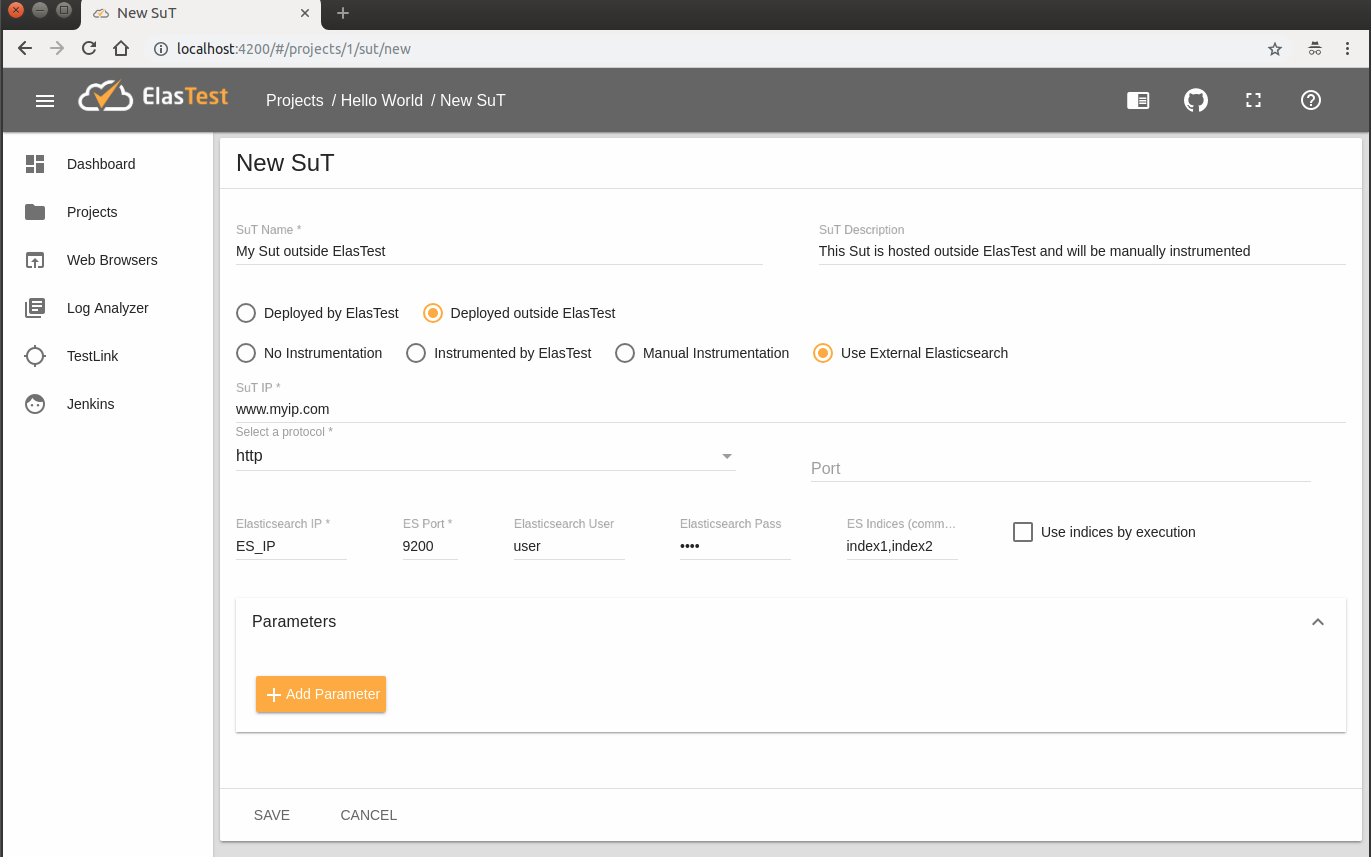
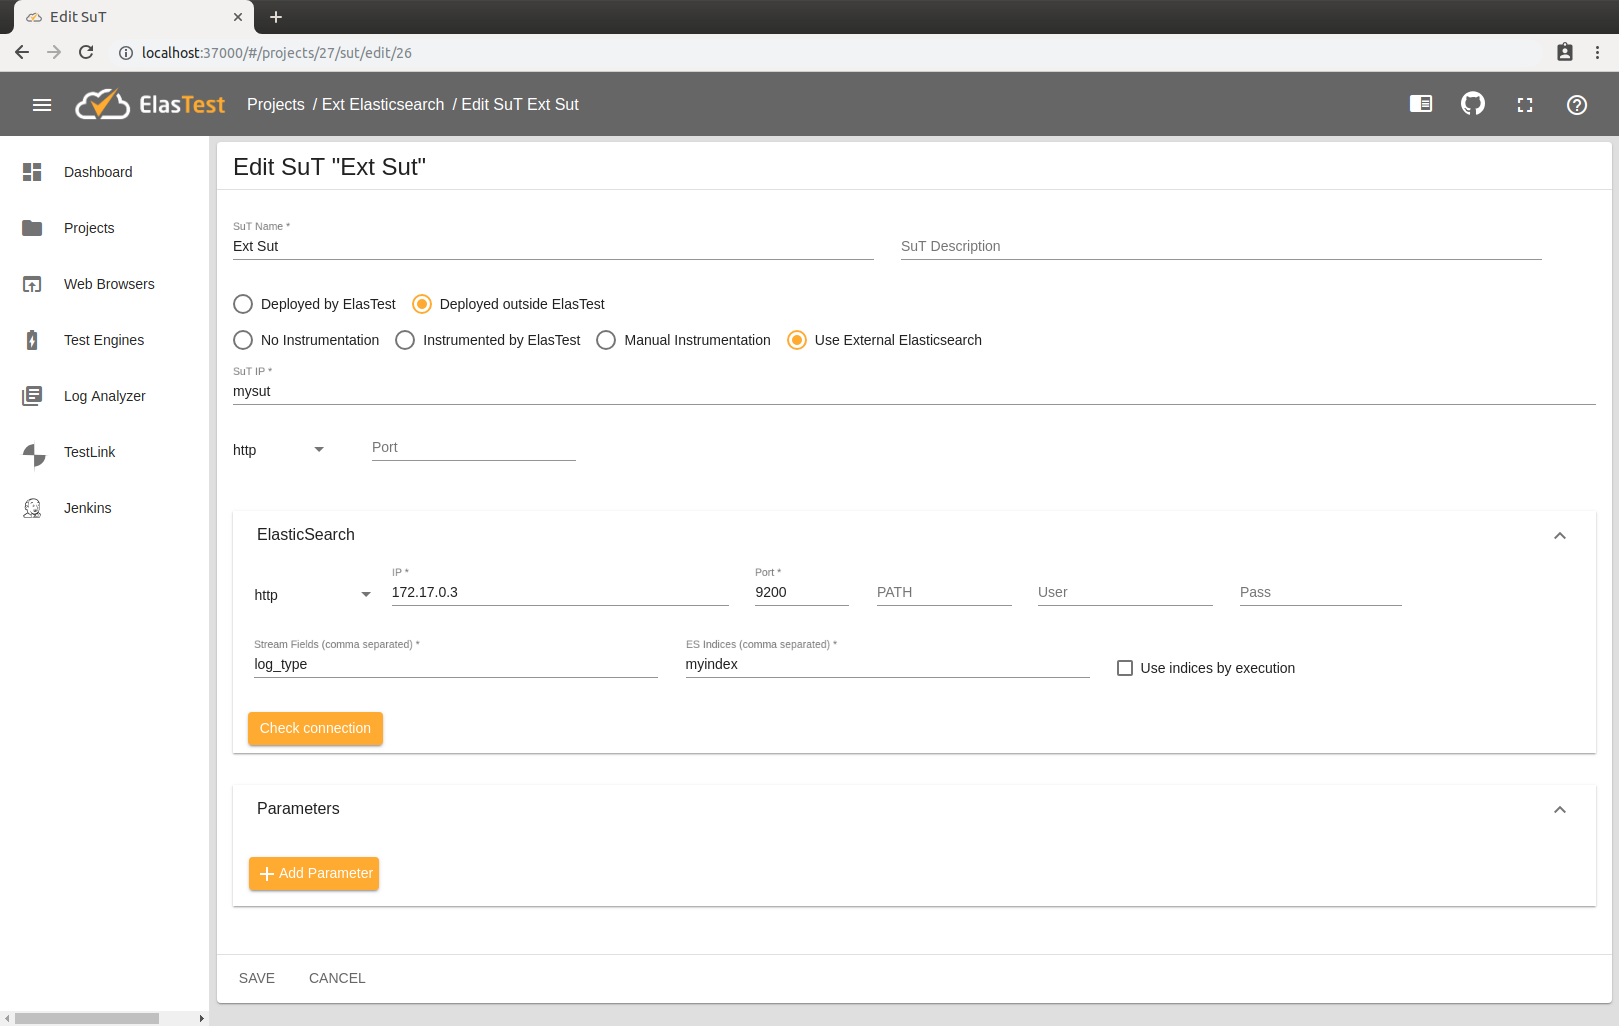
preparing 1.1.0 version

diff --git a/docs/executions-comparator/index.md b/docs/executions-comparator/index.md
@@ -1,0 +1,115 @@
+<div class="range range-xs-left">
+<div class="cell-xs-10 cell-lg-6 text-md-left inset-md-right-80 cell-lg-push-1 offset-top-50 offset-lg-top-0">
+<h2 id="content" class="h1">Executions Comparator</h2>
+<div class="offset-top-30 offset-md-top-30">
+</div>
+</div>
+</div>
+
+ElasTest has a TJob Execution comparator which allows you to see the differences between two or more executions at a glance.
+
+<h3 class="holder-subtitle link-top">Accessing Executions Comparator</h3>
+
+To access the run comparator you must first navigate to the corresponding **TJob section**.
+
+Once there you will have to **select two or more finished executions** from the table and finally press the <strong class="etColor">Compare executions</strong> button.
+
+<div class="docs-gallery inline-block">
+    <a data-fancybox="gallery-2" href="/docs/executions-comparator/images/accessing.png"><img class="img-responsive img-wellcome" src="/docs/executions-comparator/images/accessing.png"/></a>
+</div>
+
+<h3 class="holder-subtitle link-top">Using the Executions Comparator</h3>
+
+Once inside the execution comparator the following information will be displayed:
+
+<div class="docs-gallery inline-block">
+    <a data-fancybox="gallery-2" href="/docs/executions-comparator/images/executions_comparator.png"><img class="img-responsive img-wellcome" src="/docs/executions-comparator/images/executions_comparator.png"/></a>
+</div>
+
+<h4 class="small-subtitle holder-subtitle link-top">Executions to compare</h4>
+
+A list with information about **each execution** will be displayed here. You will be able to click on each one of them to navigate to the page of that execution.
+
+<h4 class="small-subtitle holder-subtitle link-top">Test Cases Comparison</h4>
+
+Here you can see a table with the <strong class="etColor">results of each test case</strong> in **each of the executions**.
+
+<h4 class="small-subtitle holder-subtitle link-top">Monitoring Traces Comparison</h4>
+
+On the other hand, you can also make a comparison of the <strong class="etColor">metrics and logs</strong> of the executions. To do this, you can select the logs and/or metrics that you want to compare in the **Monitoring Configuration** window (by pressing the nut-button on the upper right-hand side) as you would on the screen of a tjob run. Once added they will be shown as follows:
+
+<h5 id="log-comparator" class="small-subtitle">Log Comparator</h5>
+
+To compare logs you must first select the logs you want to compare:
+
+<div class="docs-gallery inline-block">
+    <a data-fancybox="gallery-2" href="/docs/executions-comparator/images/log_comparator/lc1.png"><img class="img-responsive img-wellcome" src="/docs/executions-comparator/images/log_comparator/lc1.png"/></a>
+</div>
+
+Once added you will see the following card:
+
+<div class="docs-gallery inline-block">
+    <a data-fancybox="gallery-2" href="/docs/executions-comparator/images/log_comparator/lc2.png"><img class="img-responsive img-wellcome" src="/docs/executions-comparator/images/log_comparator/lc2.png"/></a>
+</div>
+
+In this card there will be **a tab for each log selected** and if you select more than one there will be another tab called **AIO that mixes all the logs selected**.
+
+In addition, within **each of these tabs** there will be one tab **for each pair of selected executions** (in this example we have only selected two, so there will only be one tab).
+
+<div class="docs-gallery inline-block">
+    <a data-fancybox="gallery-2" href="/docs/executions-comparator/images/log_comparator/lc3.png"><img class="img-responsive img-wellcome" src="/docs/executions-comparator/images/log_comparator/lc3.png"/></a>
+</div>
+
+There are several possible filters that are divided into two categories:
+
+-   **`View`**:
+    -   **Complete logs**: compare all available logs.
+    -   **Test Logs**: compare only the logs of the test cases.
+    -   **Failed Tests**: compare only the logs of the failed test cases.
+-   **`Comparison`**:
+    -   **Complete**: includes the timestamp in the logs comparison.
+    -   **No timestamp**: only includes the message.
+    -   **Time diff**: includes the time diff between traces in the logs comparison.
+
+To start the check you should press the button Start Comparison:
+
+<div class="docs-gallery inline-block">
+    <a data-fancybox="gallery-2" href="/docs/executions-comparator/images/log_comparator/lc4.png"><img class="img-responsive img-wellcome" src="/docs/executions-comparator/images/log_comparator/lc4.png"/></a>
+</div>
+
+The comparison will be shown:
+
+<div class="docs-gallery inline-block">
+    <a data-fancybox="gallery-2" href="/docs/executions-comparator/images/log_comparator/lc5.png"><img class="img-responsive img-wellcome" src="/docs/executions-comparator/images/log_comparator/lc5.png"/></a>
+</div>
+
+If we select the Test Logs view:
+
+<div class="docs-gallery inline-block">
+    <a data-fancybox="gallery-2" href="/docs/executions-comparator/images/log_comparator/lc6.png"><img class="img-responsive img-wellcome" src="/docs/executions-comparator/images/log_comparator/lc6.png"/></a>
+</div>
+
+<!-- Metrics -->
+<h5 class="small-subtitle">Metrics Comparator</h5>
+
+To compare metrics you must first select the metrics you want to compare:
+
+<div class="docs-gallery inline-block">
+    <a data-fancybox="gallery-2" href="/docs/executions-comparator/images/mc1.png"><img class="img-responsive img-wellcome" src="/docs/executions-comparator/images/mc1.png"/></a>
+</div>
+
+Once added you will see the following card:
+
+<div class="docs-gallery inline-block">
+    <a data-fancybox="gallery-2" href="/docs/executions-comparator/images/mc2.png"><img class="img-responsive img-wellcome" src="/docs/executions-comparator/images/mc2.png"/></a>
+</div>
+
+<h6 class="smaller-subtitle">Advanced Metrics Configuration</h6>
+You can configure your tests to send marks to ElasTest, so you can make better comparisons in the charts later.
+To send a mark to ElasTest, you must print a log line for each mark in your test with the following exact structure: **`##elastest-monitor-mark: id=MARKID, value=MARKVALUE`** replacing MARKID with the common id of the mark and MARKVALUE for the value of the mark at that time. There will be a different chart display for each mark id.
+
+In this test example several marks are sent with `id=action`, therefore, in the test results page we will have the option to visualize the charts as **"action" Mark View** or as **Time View** (default). By clicking on **"action" Mark View** button we will have the following view, in which each point of the chart corresponds to each mark sent:
+
+<div class="docs-gallery inline-block">
+    <a data-fancybox="gallery-2" href="/docs/executions-comparator/images/mc3.png"><img class="img-responsive img-wellcome" src="/docs/executions-comparator/images/mc3.png"/></a>
+</div>

diff --git a/docs/releases/index.md b/docs/releases/index.md
@@ -5,11 +5,38 @@
 </div>
 
 <!-- ************************* -->
+<!-- ********* 1.0.2 ********* -->
+<!-- ************************* -->
+
+<h3 id="1.0.2" class="small-subtitle">1.0.2</h3>
+<h4 class="smaller-subtitle">01/03/2019</h4>
+
+<h5 class="smaller-subtitle">Features & Improvements</h5>
+
+-   <a target="_blank" href="/docs/executions-comparator/#log-comparator">Log Comparator</a> added in <a target="_blank" href="/docs/executions-comparator/">TJob Executions comparator</a>.
+-   **Projects/tJobs/Suts/Execs tables** can now be **`sorted`** by columns.
+-   We have incorporated a **`new code editor`** in the **TJob and Sut edition** for the commands field, instead of using textarea.
+
+<div class="docs-gallery inline-block" style="margin-top: 6px; margin-left: 23px;">
+    <a data-fancybox="gallery-1" href="/docs/releases/images/td_code_editor.png"><img class="img-responsive img-wellcome" style="max-height: 270px;" src="/docs/releases/images/td_code_editor.png"/></a>
+</div>
+
+-   Now all **modal windows** are **`draggable`**.
+-   TJobExec Test Case **tabs** have now **`lazy load`**.
+-   Now you can pass a **`list of hosts`** to <a target="_blank" href="/docs/testlink">TestLink</a> browsers to put them in their **/etc/hosts**.
+-   Improvements in <a target="_blank" href="/docs/testing/sut/#outsideExternalES">Sut with external Elasticsearch</a>.
+
+<h5 class="smaller-subtitle">Bug Fixes</h5>
+
+-   Fixed some problems with <a target="_blank" href="/docs/jenkins">ElasTest Jenkins Plugin</a>.
+-   Fixed Bug with <a target="_blank" href="/docs/testing/sut/#outsideExternalES">Sut with external Elasticsearch</a> that failed to set an empty path.
+
+<!-- ************************* -->
 <!-- ********* 1.0.1 ********* -->
 <!-- ************************* -->
 
 <h3 id="1.0.1" class="small-subtitle">1.0.1</h3>
-<h4 class="smaller-subtitle">19/02/2018</h4>
+<h4 class="smaller-subtitle">19/02/2019</h4>
 
 <h5 class="smaller-subtitle">Features & Improvements</h5>
 
@@ -27,13 +54,13 @@
 <!-- ************************* -->
 
 <h3 id="1.0.0" class="small-subtitle">1.0.0</h3>
-<h4 class="smaller-subtitle">13/02/2018</h4>
+<h4 class="smaller-subtitle">13/02/2019</h4>
 
 <h5 class="smaller-subtitle">Features & Improvements</h5>
 
 -   Now when you run a <a target="_blank" href="/docs/testlink">TestLink</a> test plan from ElasTest, you can **`select the browser and the desired version`**.
 -   Added **`"View in log analyzer" button`** on <a target="_blank" href="/docs/testlink">TestLink</a> test plan execution page.
--   **`Metrics`** can now also be compared in the **TJob Executions comparator**.
+-   **`Metrics`** can now also be compared in the <a target="_blank" href="/docs/executions-comparator/">TJob Executions comparator</a>.
 -   A button has been added to the **log cards** to **`download`** them as a _.log_ file.
 -   Now you can select one or more **Projects** and **`delete them all`** at once. You can also do the same with the **TJob Executions**, inside the tJob page.
 -   Now the search of **logs and metrics** of an execution is done with **`start/end date range`**, which corrects the timeout problem when requesting them.
@@ -52,7 +79,7 @@
 <!-- ************************* -->
 
 <h3 id="1.0.0-beta7" class="small-subtitle">1.0.0-beta7</h3>
-<h4 class="smaller-subtitle">31/01/2018</h4>
+<h4 class="smaller-subtitle">31/01/2019</h4>
 
 <h5 class="smaller-subtitle">Features & Improvements</h5>
 
@@ -76,7 +103,7 @@
 <!-- ************************* -->
 
 <h3 id="1.0.0-beta6" class="small-subtitle">1.0.0-beta6</h3>
-<h4 class="smaller-subtitle">23/01/2018</h4>
+<h4 class="smaller-subtitle">23/01/2019</h4>
 
 <h5 class="smaller-subtitle">Features & Improvements</h5>
 
@@ -84,7 +111,7 @@
 -   The **`--logs`** option of <a target="_blank" href="/docs/try-elastest/">ElasTest Platform</a> has been removed. The starting logs of ElasTest containers will now be automatically displayed in the logs of the ElasTest Platform container. This also solves container freezing problems.
 -   General improvements in the **`stability`** of ElasTest
 
-<div class="docs-gallery inline-block" style="margin-left: 23px;">
+<div class="docs-gallery inline-block" style="margin-top: 6px; margin-left: 23px;">
     <a data-fancybox="gallery-1" href="/docs/releases/images/platform_start_log-1.0.0-beta6.png"><img class="img-responsive img-wellcome" style="max-height: 270px;" src="/docs/releases/images/platform_start_log-1.0.0-beta6.png"/></a>
 </div>
 

diff --git a/docs/testing/sut.md b/docs/testing/sut.md
@@ -179,16 +179,21 @@ Your SuT is already deployed on an external server and you store your monitoring
 
 -   **SuT IP**: IP or DNS of your SuT. Thanks to this field your TJobs may know how to reach your SuT through environment variable `ET_SUT_HOST`. Check [Environment variables](/testing/environment-variables) to learn more.
 -   **SuT Protocol**: Protocol of your SuT. **`http`** is selected by default.
--   **Elasticsearch IP**: IP or DNS of your Elasticsearch.
--   **Elasticsearch Port**: Port of your Elasticsearch.
--   **ES Indices**: Elasticsearch indices where the Sut monitoring traces be stored. If there are more than one index, type them separated by commas.
+-   **Elasticsearch**:
+    -   **Protocol**: Protocol of your Elasticsearch.
+    -   **IP**: IP or DNS of your Elasticsearch.
+    -   **Port**: Port of your Elasticsearch.
+    -   **Stream Fields**: field or fields used to sort the different logs. For each value a log card will be displayed in ElasTest. If more than one field is indicated (separated by commas) it will be sorted by combination of values of each field following the order indicated.
+    -   **ES Indices**: Elasticsearch indices where the Sut monitoring traces be stored. If there are more than one index, type them separated by commas.
 
 **Optional Fields:**
 
 -   **SuT Port**: Port of your SuT.
--   **Elasticsearch User**: The User of your Elasticsearch.
--   **Elasticsearch Pass**: The Password of your Elasticsearch.
--   **Use Indices by Execution**: If checked, a parameter with the indices will be added. For each TJob Execution, you can to indicate the inidices.
+-   **Elasticsearch**:
+    -   **Path**: Path of your Elasticsearch if it is behind a proxy.
+    -   **User**: The User of your Elasticsearch.
+    -   **Pass**: The Password of your Elasticsearch.
+    -   **Use Indices by Execution**: If checked, a parameter with the indices will be added. For each TJob Execution, you can to indicate the inidices.
 
 <p></p>
 <div class="docs-gallery inline-block">
